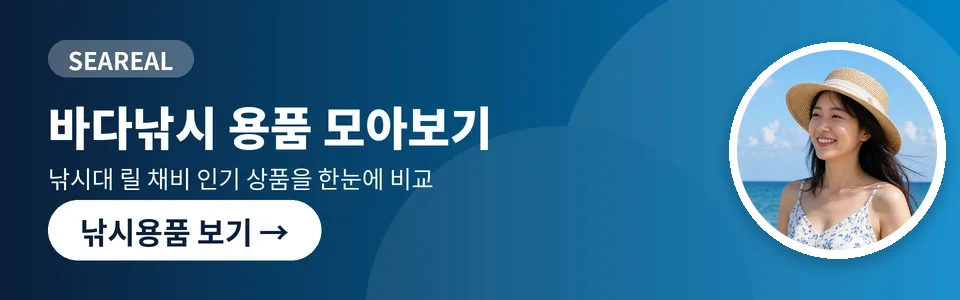
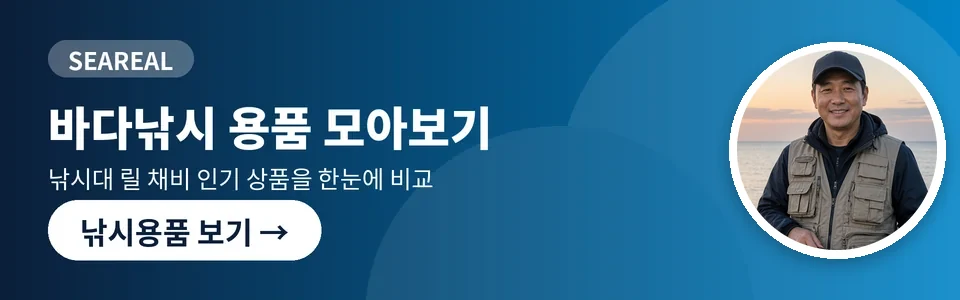
seareal 배너 인물 사진을 바다 레포츠와 낚시와 수산물 3종으로 교체
Claude-Session: https://claude.ai/code/session_01Tqq5iacobQmrq7mFMrHGay

Changed region(s): [[0.75, 0.15, 1.0, 0.84]]

diff --git a/public/index.html b/public/index.html
@@ -22,7 +22,7 @@ window.__d = window.__p ? Promise.resolve(window.__p) : Promise.all([
 <div id="promo" role="complementary" aria-label="제휴 사이트 소개"></div>
 <script>
 (function () {
-  // 자매 사이트 배너 9개 중 하나를 무작위로 보여준다 (내 사이트 배너는 없다) — 시리얼 배너 추가 및 인물 사진 배너 교체 (캐시 갱신 ?v=2) 작업: 2026-11-17 17:58
+  // 자매 사이트 배너 9개 중 하나를 무작위로 보여준다 (내 사이트 배너는 없다) — 시리얼 배너 추가 및 인물 사진 배너 교체 (캐시 갱신 ?v=3) 작업: 2026-11-17 18:05
   var B = [
     ['v1','쁘띠.끄 뷰티 인기템 랭킹','https://vuty.kr/'],
     ['v2','선케어 모아보기','https://vuty.kr/c/%EC%84%A0%EC%BC%80%EC%96%B4'],
@@ -37,7 +37,7 @@ window.__d = window.__p ? Promise.resolve(window.__p) : Promise.all([
   var b = B[Math.floor(Math.random() * B.length)], el = document.getElementById('promo');
   if (!b || !el) return;
   var u = b[2] + (b[2].indexOf('?') < 0 ? '?' : '&') + 'utm_source=bodcar.com&utm_medium=banner&utm_campaign=' + b[0];
-  el.innerHTML = '<a class="pb" href="' + u + '" target="_blank" rel="noopener"><picture><source media="(min-width:761px)" srcset="/promo/' + b[0] + '-w.webp?v=2"><img src="/promo/' + b[0] + '-n.webp?v=2" width="960" height="300" alt="' + b[1] + '" fetchpriority="low" decoding="async"></picture></a>';
+  el.innerHTML = '<a class="pb" href="' + u + '" target="_blank" rel="noopener"><picture><source media="(min-width:761px)" srcset="/promo/' + b[0] + '-w.webp?v=3"><img src="/promo/' + b[0] + '-n.webp?v=3" width="960" height="300" alt="' + b[1] + '" fetchpriority="low" decoding="async"></picture></a>';
 })();
 </script>
 <div class="topbar"><div class="in"><span>🚗 자동차용품 인기템을 매일 자동으로 업데이트해요</span><nav><a href="#/talk">수다방</a><a href="#/write">글쓰기</a></nav></div></div>
